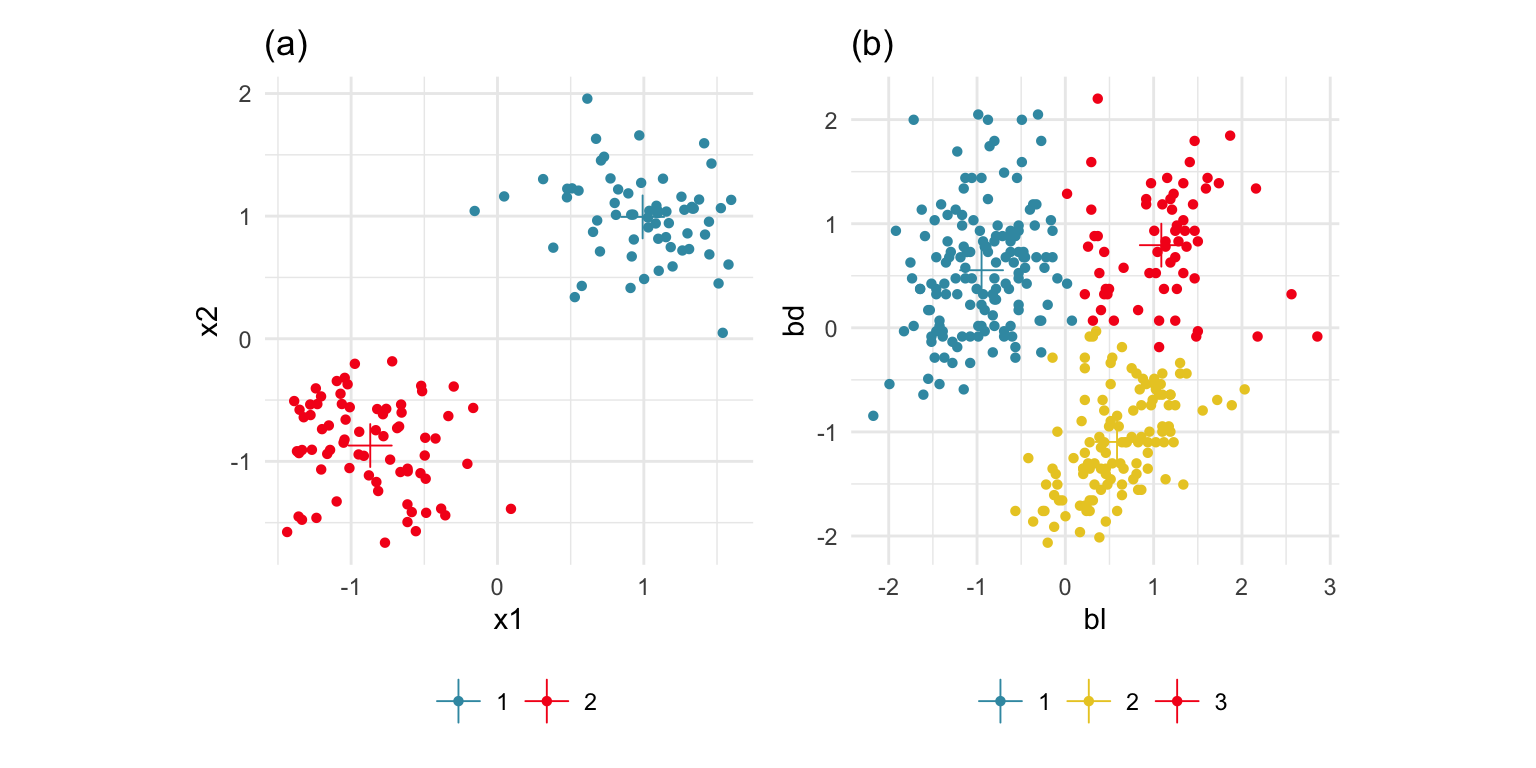
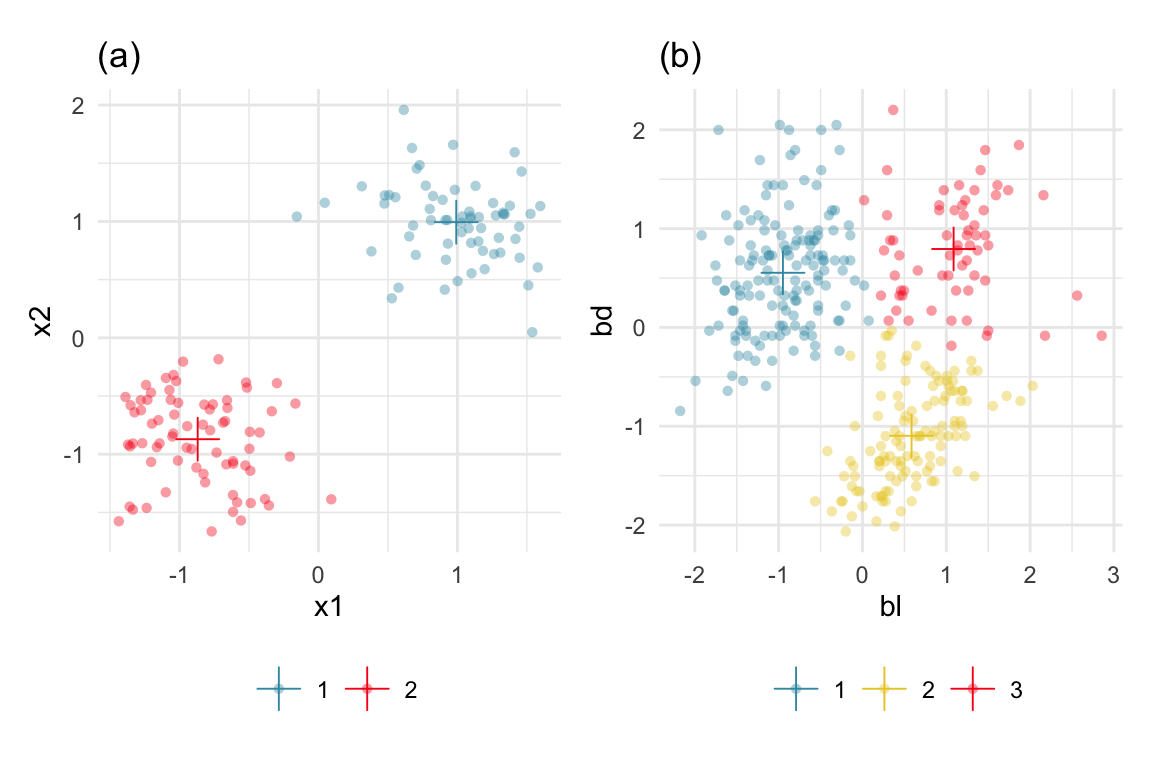
polsiedh the k-means some more

diff --git a/docs/kmeans-clustering.html b/docs/kmeans-clustering.html
@@ -328,7 +328,9 @@ code span.wa { color: #60a0b0; font-weight: bold; font-style: italic; } /* Warni
     <h2 id="toc-title">Table of contents</h2>
    
   <ul>
-  <li><a href="#exercises" id="toc-exercises" class="nav-link active" data-scroll-target="#exercises">Exercises</a></li>
+  <li><a href="#examining-results-in-2d" id="toc-examining-results-in-2d" class="nav-link active" data-scroll-target="#examining-results-in-2d"><span class="toc-section-number">7.1</span>  Examining results in 2D</a></li>
+  <li><a href="#in-high-dimensions" id="toc-in-high-dimensions" class="nav-link" data-scroll-target="#in-high-dimensions"><span class="toc-section-number">7.2</span>  In high dimensions</a></li>
+  <li><a href="#exercises" id="toc-exercises" class="nav-link" data-scroll-target="#exercises">Exercises</a></li>
   </ul>
 </nav>
     </div>
@@ -360,6 +362,8 @@ code span.wa { color: #60a0b0; font-weight: bold; font-style: italic; } /* Warni
 <li>boundaries</li>
 </ul>
 </div>
+<section id="examining-results-in-2d" class="level2" data-number="7.1">
+<h2 data-number="7.1" class="anchored" data-anchor-id="examining-results-in-2d"><span class="header-section-number">7.1</span> Examining results in 2D</h2>
 <p><a href="#fig-km-2D">Figure&nbsp;<span>7.1</span></a> shows the results of <span class="math inline">\(k\)</span>-means clustering on the 2D <code>simple_clusters</code> data and two variables of the penguins data. We can see that it works well when the clusters are spherical, but for the penguins data it fails because the shape of the clusters is elliptical. It actually makes a mistake that would not be made if we simply visually clustered: cluster 3 has grouped points across a gap, a divide that visually we would all agree should form a separation.</p>
 <div class="cell">
 <div class="sourceCode cell-code" id="cb1"><pre class="sourceCode r code-with-copy"><code class="sourceCode r"><span id="cb1-1"><a href="#cb1-1" aria-hidden="true" tabindex="-1"></a><span class="fu">library</span>(mulgar)</span>
@@ -381,7 +385,7 @@ code span.wa { color: #60a0b0; font-weight: bold; font-style: italic; } /* Warni
 <span id="cb1-17"><a href="#cb1-17" aria-hidden="true" tabindex="-1"></a>sc_bl_bd_km_p <span class="ot">&lt;-</span> <span class="fu">ggplot</span>() <span class="sc">+</span></span>
 <span id="cb1-18"><a href="#cb1-18" aria-hidden="true" tabindex="-1"></a>  <span class="fu">geom_point</span>(<span class="at">data=</span>sc_bl_bd_km_d, </span>
 <span id="cb1-19"><a href="#cb1-19" aria-hidden="true" tabindex="-1"></a>             <span class="fu">aes</span>(<span class="at">x=</span>x1, <span class="at">y=</span>x2, <span class="at">colour=</span>cl), </span>
-<span id="cb1-20"><a href="#cb1-20" aria-hidden="true" tabindex="-1"></a>             <span class="at">shape=</span><span class="dv">16</span>) <span class="sc">+</span></span>
+<span id="cb1-20"><a href="#cb1-20" aria-hidden="true" tabindex="-1"></a>             <span class="at">shape=</span><span class="dv">16</span>, <span class="at">alpha=</span><span class="fl">0.4</span>) <span class="sc">+</span></span>
 <span id="cb1-21"><a href="#cb1-21" aria-hidden="true" tabindex="-1"></a>  <span class="fu">geom_point</span>(<span class="at">data=</span>sc_bl_bd_km_means, </span>
 <span id="cb1-22"><a href="#cb1-22" aria-hidden="true" tabindex="-1"></a>             <span class="fu">aes</span>(<span class="at">x=</span>x1, <span class="at">y=</span>x2, <span class="at">colour=</span>cl), </span>
 <span id="cb1-23"><a href="#cb1-23" aria-hidden="true" tabindex="-1"></a>             <span class="at">shape=</span><span class="dv">3</span>, <span class="at">size=</span><span class="dv">5</span>) <span class="sc">+</span></span>
@@ -401,26 +405,31 @@ code span.wa { color: #60a0b0; font-weight: bold; font-style: italic; } /* Warni
 <span id="cb1-37"><a href="#cb1-37" aria-hidden="true" tabindex="-1"></a></span>
 <span id="cb1-38"><a href="#cb1-38" aria-hidden="true" tabindex="-1"></a>p_bl_bd_km_p <span class="ot">&lt;-</span> <span class="fu">ggplot</span>() <span class="sc">+</span></span>
 <span id="cb1-39"><a href="#cb1-39" aria-hidden="true" tabindex="-1"></a>  <span class="fu">geom_point</span>(<span class="at">data=</span>p_bl_bd_km_d, </span>
-<span id="cb1-40"><a href="#cb1-40" aria-hidden="true" tabindex="-1"></a>             <span class="fu">aes</span>(<span class="at">x=</span>bl, <span class="at">y=</span>bd, <span class="at">colour=</span>cl), <span class="at">shape=</span><span class="dv">16</span>) <span class="sc">+</span></span>
-<span id="cb1-41"><a href="#cb1-41" aria-hidden="true" tabindex="-1"></a>  <span class="fu">geom_point</span>(<span class="at">data=</span>p_bl_bd_km_means, </span>
-<span id="cb1-42"><a href="#cb1-42" aria-hidden="true" tabindex="-1"></a>             <span class="fu">aes</span>(<span class="at">x=</span>bl, <span class="at">y=</span>bd, <span class="at">colour=</span>cl), <span class="at">shape=</span><span class="dv">3</span>, <span class="at">size=</span><span class="dv">5</span>) <span class="sc">+</span></span>
-<span id="cb1-43"><a href="#cb1-43" aria-hidden="true" tabindex="-1"></a>    <span class="fu">scale_color_discrete_divergingx</span>(<span class="st">"Zissou 1"</span>) <span class="sc">+</span></span>
-<span id="cb1-44"><a href="#cb1-44" aria-hidden="true" tabindex="-1"></a>  <span class="fu">ggtitle</span>(<span class="st">"(b)"</span>) <span class="sc">+</span></span>
-<span id="cb1-45"><a href="#cb1-45" aria-hidden="true" tabindex="-1"></a>  <span class="fu">theme_minimal</span>() <span class="sc">+</span></span>
-<span id="cb1-46"><a href="#cb1-46" aria-hidden="true" tabindex="-1"></a>  <span class="fu">theme</span>(<span class="at">aspect.ratio =</span> <span class="dv">1</span>, </span>
-<span id="cb1-47"><a href="#cb1-47" aria-hidden="true" tabindex="-1"></a>        <span class="at">legend.position =</span> <span class="st">"bottom"</span>,</span>
-<span id="cb1-48"><a href="#cb1-48" aria-hidden="true" tabindex="-1"></a>        <span class="at">legend.title =</span> <span class="fu">element_blank</span>()) </span>
-<span id="cb1-49"><a href="#cb1-49" aria-hidden="true" tabindex="-1"></a></span>
-<span id="cb1-50"><a href="#cb1-50" aria-hidden="true" tabindex="-1"></a>sc_bl_bd_km_p <span class="sc">+</span> p_bl_bd_km_p <span class="sc">+</span> <span class="fu">plot_layout</span>(<span class="at">ncol=</span><span class="dv">2</span>)</span></code><button title="Copy to Clipboard" class="code-copy-button"><i class="bi"></i></button></pre></div>
+<span id="cb1-40"><a href="#cb1-40" aria-hidden="true" tabindex="-1"></a>             <span class="fu">aes</span>(<span class="at">x=</span>bl, <span class="at">y=</span>bd, <span class="at">colour=</span>cl), </span>
+<span id="cb1-41"><a href="#cb1-41" aria-hidden="true" tabindex="-1"></a>             <span class="at">shape=</span><span class="dv">16</span>, <span class="at">alpha=</span><span class="fl">0.4</span>) <span class="sc">+</span></span>
+<span id="cb1-42"><a href="#cb1-42" aria-hidden="true" tabindex="-1"></a>  <span class="fu">geom_point</span>(<span class="at">data=</span>p_bl_bd_km_means, </span>
+<span id="cb1-43"><a href="#cb1-43" aria-hidden="true" tabindex="-1"></a>             <span class="fu">aes</span>(<span class="at">x=</span>bl, <span class="at">y=</span>bd, <span class="at">colour=</span>cl), </span>
+<span id="cb1-44"><a href="#cb1-44" aria-hidden="true" tabindex="-1"></a>             <span class="at">shape=</span><span class="dv">3</span>, <span class="at">size=</span><span class="dv">5</span>) <span class="sc">+</span></span>
+<span id="cb1-45"><a href="#cb1-45" aria-hidden="true" tabindex="-1"></a>    <span class="fu">scale_color_discrete_divergingx</span>(<span class="st">"Zissou 1"</span>) <span class="sc">+</span></span>
+<span id="cb1-46"><a href="#cb1-46" aria-hidden="true" tabindex="-1"></a>  <span class="fu">ggtitle</span>(<span class="st">"(b)"</span>) <span class="sc">+</span></span>
+<span id="cb1-47"><a href="#cb1-47" aria-hidden="true" tabindex="-1"></a>  <span class="fu">theme_minimal</span>() <span class="sc">+</span></span>
+<span id="cb1-48"><a href="#cb1-48" aria-hidden="true" tabindex="-1"></a>  <span class="fu">theme</span>(<span class="at">aspect.ratio =</span> <span class="dv">1</span>, </span>
+<span id="cb1-49"><a href="#cb1-49" aria-hidden="true" tabindex="-1"></a>        <span class="at">legend.position =</span> <span class="st">"bottom"</span>,</span>
+<span id="cb1-50"><a href="#cb1-50" aria-hidden="true" tabindex="-1"></a>        <span class="at">legend.title =</span> <span class="fu">element_blank</span>()) </span>
+<span id="cb1-51"><a href="#cb1-51" aria-hidden="true" tabindex="-1"></a></span>
+<span id="cb1-52"><a href="#cb1-52" aria-hidden="true" tabindex="-1"></a>sc_bl_bd_km_p <span class="sc">+</span> p_bl_bd_km_p <span class="sc">+</span> <span class="fu">plot_layout</span>(<span class="at">ncol=</span><span class="dv">2</span>)</span></code><button title="Copy to Clipboard" class="code-copy-button"><i class="bi"></i></button></pre></div>
 <div class="cell-output-display">
 <div id="fig-km-2D" class="quarto-figure quarto-figure-center anchored">
 <figure class="figure">
-<p><img src="kmeans-clustering_files/figure-html/fig-km-2D-1.png" class="img-fluid figure-img" width="768"></p>
+<p><img src="kmeans-clustering_files/figure-html/fig-km-2D-1.png" class="img-fluid figure-img" width="576"></p>
 <p></p><figcaption class="figure-caption">Figure&nbsp;7.1: Examining <span class="math inline">\(k\)</span>-means clustering results for simple clusters (a) and two variables of the penguins data (b). The means are indicated by a <span class="math inline">\(+\)</span>. The results are perfect for the simple clusters but not for the penguins data. The penguin clusters are elliptically shaped which is not captured by <span class="math inline">\(k\)</span>-means. Cluster 3 has observations grouped across a gap in the data.</figcaption><p></p>
 </figure>
 </div>
 </div>
 </div>
+</section>
+<section id="in-high-dimensions" class="level2" data-number="7.2">
+<h2 data-number="7.2" class="anchored" data-anchor-id="in-high-dimensions"><span class="header-section-number">7.2</span> In high dimensions</h2>
 <p>This approach extends to high-dimensions. One colours observations by the cluster label, and overlays the final cluster means. If we see gaps in points in a single cluster it would mean that <span class="math inline">\(k\)</span>-means fails to see important cluster structure. This is what happens with the 4D penguins data as shown in <a href="#fig-p-km">Figure&nbsp;<span>7.2</span></a>.</p>
 <div class="cell">
 <div class="sourceCode cell-code" id="cb2"><pre class="sourceCode r code-with-copy"><code class="sourceCode r"><span id="cb2-1"><a href="#cb2-1" aria-hidden="true" tabindex="-1"></a>p_km <span class="ot">&lt;-</span> <span class="fu">kmeans</span>(penguins_sub[,<span class="dv">1</span><span class="sc">:</span><span class="dv">4</span>], <span class="at">centers=</span><span class="dv">3</span>, </span>
@@ -458,13 +467,18 @@ code span.wa { color: #60a0b0; font-weight: bold; font-style: italic; } /* Warni
 </div>
 <div id="fig-p-km" class="quarto-figure quarto-figure-center anchored">
 <figure class="figure">
-<p><img src="gifs/p_km.gif" class="img-fluid figure-img" alt="FIX ME" width="300"></p>
-<p></p><figcaption class="figure-caption">Figure&nbsp;7.2: Exploring the k-means clustering result for the 4D penguins data.</figcaption><p></p>
+<p><img src="gifs/p_km.gif" class="img-fluid figure-img" alt="FIX ME" width="400"></p>
+<p></p><figcaption class="figure-caption">Figure&nbsp;7.2: Exploring the k-means clustering result for the 4D penguins data. You can see cluster 2 clearly separated from the other observations. Cluster 3, like in the 2D example, is a mix of observations across a gap. Even the mean of the cluster is almost in the gap.</figcaption><p></p>
 </figure>
 </div>
-<p>Generally, there is no need to choose <span class="math inline">\(k\)</span> ahead of time. One would re-fit <span class="math inline">\(k\)</span>-means with various choices of <span class="math inline">\(k\)</span>, and compare the <code>tot.withinss</code> and examine the clusters visually, to decide on the optimal final value of <span class="math inline">\(k\)</span>.</p>
+<p>Generally, there is no need to choose <span class="math inline">\(k\)</span> ahead of time. One would re-fit <span class="math inline">\(k\)</span>-means with various choices of <span class="math inline">\(k\)</span>, and compare the <code>tot.withinss</code> and examine the clusters visually, to decide on the optimal final value of <span class="math inline">\(k\)</span>. This can be assessed in a similar way to the scree plot for PCA.</p>
+</section>
 <section id="exercises" class="level2 unnumbered">
 <h2 class="unnumbered anchored" data-anchor-id="exercises">Exercises</h2>
+<ol type="1">
+<li>Compute a <span class="math inline">\(k\)</span>-means clustering for the <code>fake_trees</code> data, varying <span class="math inline">\(k\)</span> to about 20. Choose your best <span class="math inline">\(k\)</span>, and examine the solution using the first 10 PCs on the data. It should capture the data quite nicely, although it will break up each branch into multiple clusters.</li>
+<li>Compute a <span class="math inline">\(k\)</span>-means clustering of the first four PCs on the <code>aflw</code> data. Examine the best solution (you choose which <span class="math inline">\(k\)</span>), and describe how it divides the data. By examining the means, can you tell if it extracts clusters of offensive vs defensive vs midfield players? Or does it break the data into high skills vs low skills?</li>
+</ol>
 
 
 </section>
